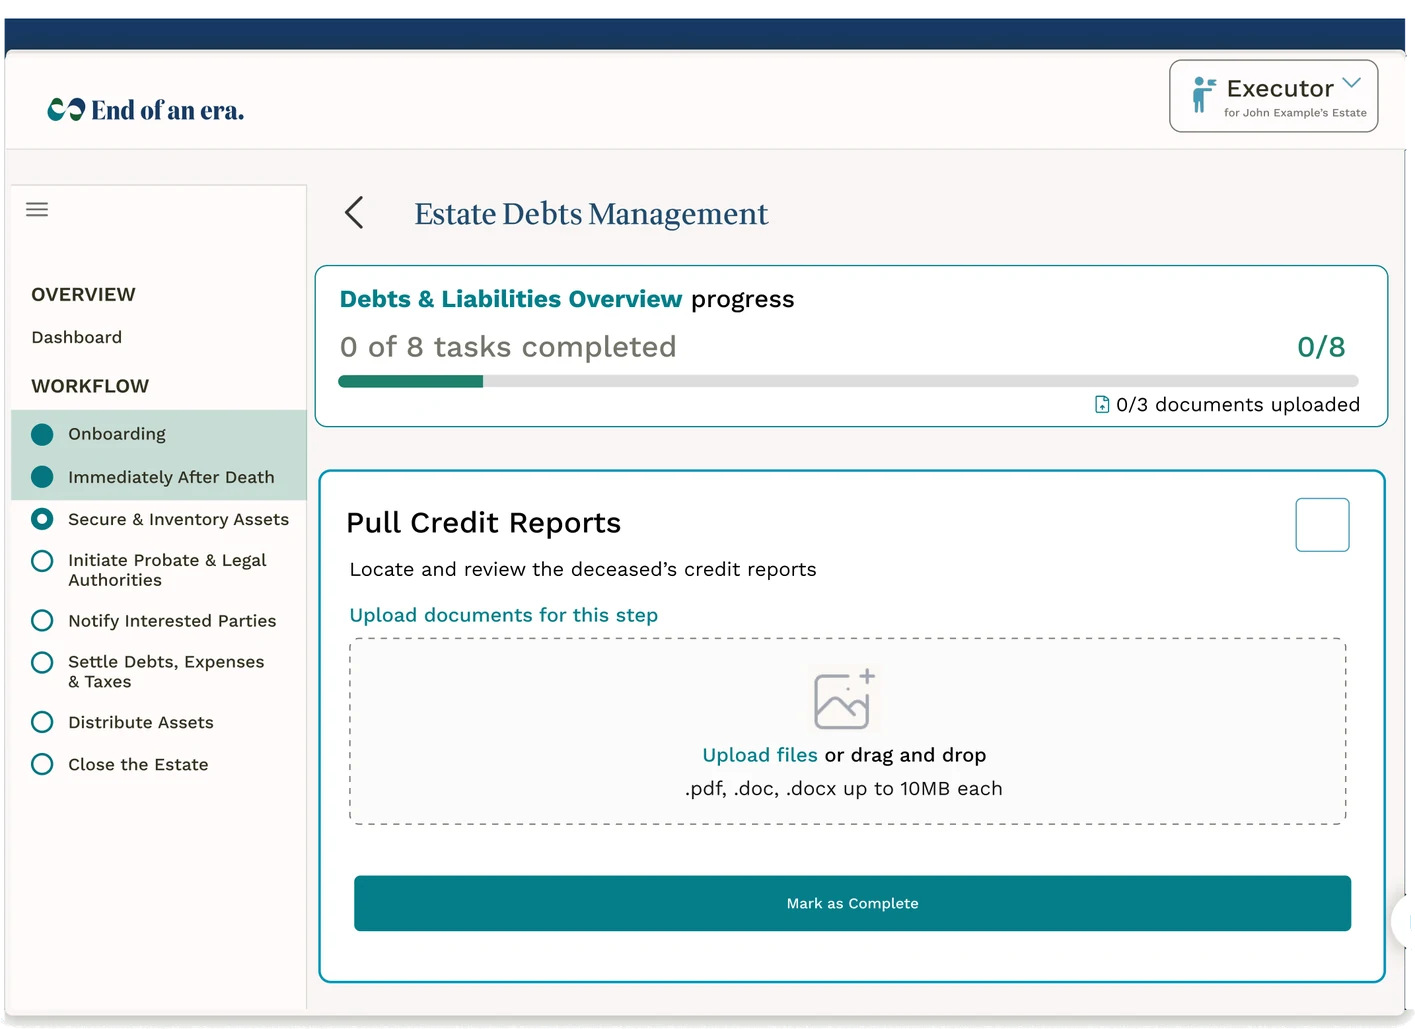
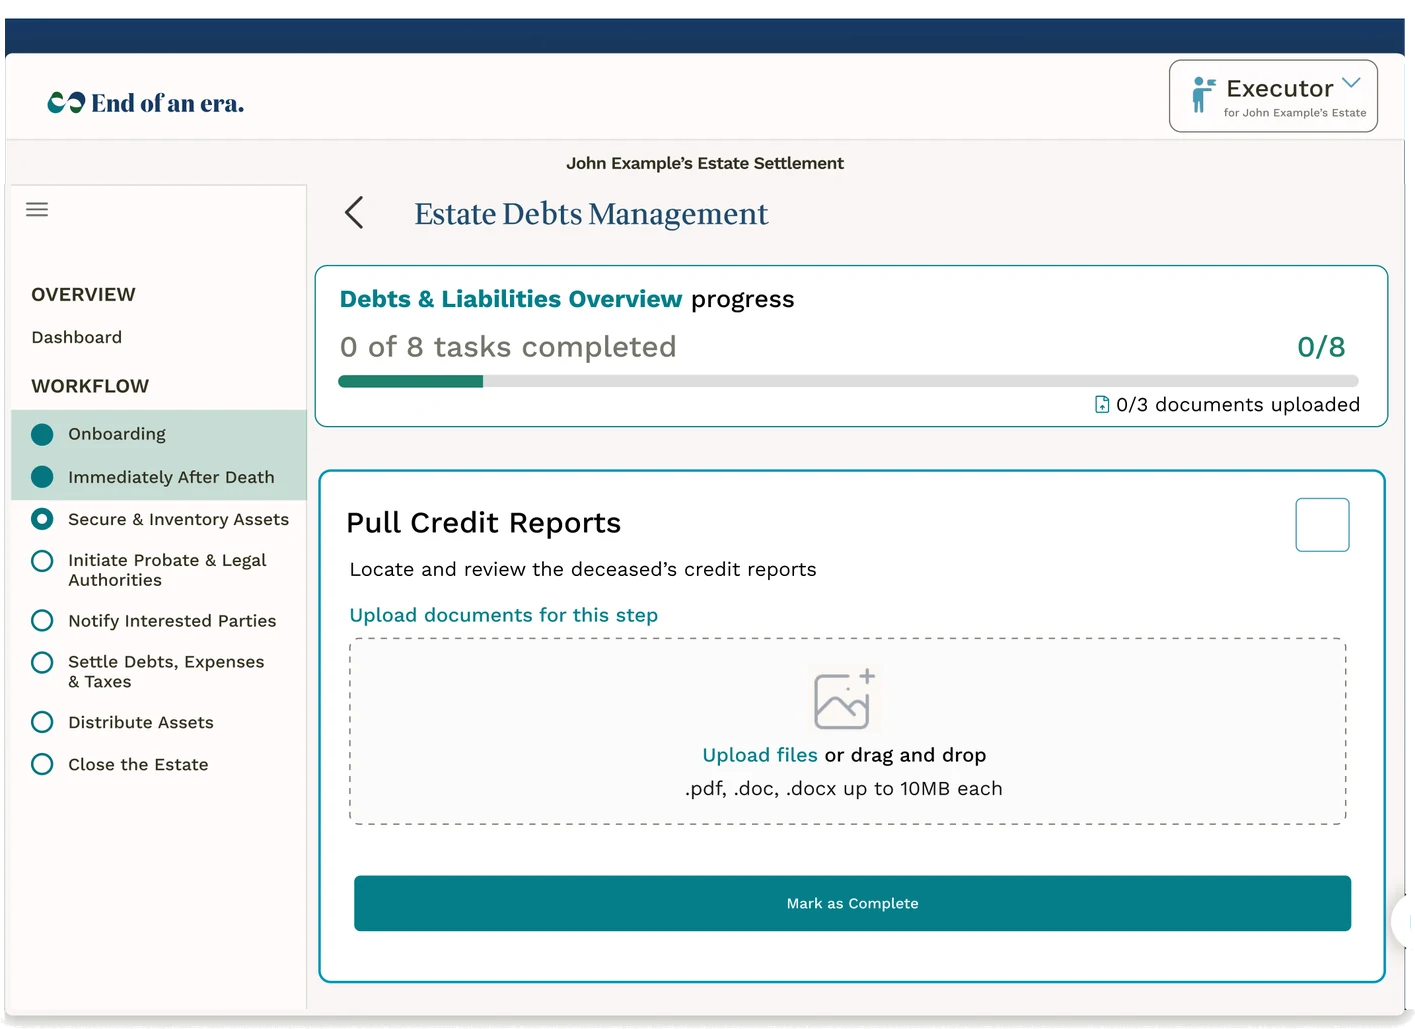
End of an Era: every screen gets the same top band (navy title strip, app header, estate title)
17 screens were missing the strip, missing the whole header, or had a thinner strip/squashed header.

Changed region(s): [[0.0, 0.0311, 0.9951, 0.0933], [0.4042, 0.1555, 0.5908, 0.1866], [0.0311, 0.0933, 0.1866, 0.1244]]

diff --git a/app/work/end-of-an-era/frames.ts b/app/work/end-of-an-era/frames.ts
@@ -18,7 +18,7 @@ export const FRAMES = {
   "tia-planner-7": { w: 1408, h: 1024, win: [3, 0, 1400, 1015] },
   "tia-planner-8": { w: 1415, h: 2732, win: [0, 0, 1400, 997] },
   "tia-planner-9": { w: 1408, h: 1024, win: [3, 0, 1400, 1015] },
-  "tia-noplanner-1": { w: 1400, h: 956, win: [0, 0, 1400, 956] },
+  "tia-noplanner-1": { w: 1400, h: 1009, win: [0, 0, 1400, 1009] },
   "tia-noplanner-2": { w: 1493, h: 1608, win: [3, 0, 1400, 1016] },
   "tia-noplanner-3": { w: 1492, h: 2047, win: [3, 0, 1400, 1016] },
   "tia-noplanner-4": { w: 1405, h: 1024, win: [0, 0, 1400, 1015] },
@@ -34,25 +34,25 @@ export const FRAMES = {
   "personal-noplanner-1": { w: 1405, h: 1024, win: [0, 0, 1400, 1015] },
   "personal-noplanner-2": { w: 1100, h: 1864, win: null },
   "personal-noplanner-3": { w: 1408, h: 1024, win: [3, 0, 1400, 1015] },
-  "business-noplanner-1": { w: 1427, h: 1303, win: [7, 0, 1400, 976] },
+  "business-noplanner-1": { w: 1427, h: 1356, win: [7, 0, 1400, 1029] },
   "business-noplanner-2": { w: 1403, h: 2020, win: [3, 0, 1400, 1015] },
-  "liab-planner-1": { w: 1414, h: 1804, win: [7, 0, 1400, 1031] },
+  "liab-planner-1": { w: 1414, h: 1732, win: [7, 0, 1400, 959] },
   "liab-planner-2": { w: 1415, h: 1102, win: [5, 0, 1400, 1021] },
   "liab-planner-3": { w: 1408, h: 1027, win: [3, 0, 1400, 1015] },
-  "liab-planner-4": { w: 1417, h: 1984, win: [8, 0, 1400, 995] },
-  "liab-planner-5": { w: 1410, h: 1191, win: [3, 0, 1400, 1022] },
-  "liab-planner-6": { w: 1411, h: 2239, win: [4, 0, 1400, 997] },
-  "liab-planner-7": { w: 1410, h: 1338, win: [3, 0, 1400, 1022] },
-  "liab-planner-8": { w: 1402, h: 1005, win: [0, 0, 1400, 995] },
+  "liab-planner-4": { w: 1417, h: 2042, win: [8, 0, 1400, 1053] },
+  "liab-planner-5": { w: 1410, h: 1240, win: [3, 0, 1400, 1071] },
+  "liab-planner-6": { w: 1411, h: 2292, win: [4, 0, 1400, 1050] },
+  "liab-planner-7": { w: 1410, h: 1387, win: [3, 0, 1400, 1071] },
+  "liab-planner-8": { w: 1402, h: 1058, win: [0, 0, 1400, 1048] },
   "liab-planner-9": { w: 1408, h: 1029, win: [3, 0, 1400, 1015] },
-  "liab-noplanner-1": { w: 1414, h: 1804, win: [7, 0, 1400, 1031] },
+  "liab-noplanner-1": { w: 1414, h: 1732, win: [7, 0, 1400, 959] },
   "liab-noplanner-2": { w: 1415, h: 1029, win: [5, 0, 1400, 1021] },
   "liab-noplanner-3": { w: 1408, h: 1027, win: [3, 0, 1400, 1015] },
   "liab-noplanner-4": { w: 1415, h: 1102, win: [5, 0, 1400, 1021] },
-  "liab-noplanner-5": { w: 1410, h: 1191, win: [3, 0, 1400, 1022] },
-  "liab-noplanner-6": { w: 1417, h: 1984, win: [8, 0, 1400, 995] },
-  "liab-noplanner-7": { w: 1411, h: 2239, win: [4, 0, 1400, 997] },
-  "liab-noplanner-8": { w: 1410, h: 1338, win: [3, 0, 1400, 1022] },
-  "liab-noplanner-9": { w: 1402, h: 1004, win: [0, 0, 1400, 994] },
+  "liab-noplanner-5": { w: 1410, h: 1240, win: [3, 0, 1400, 1071] },
+  "liab-noplanner-6": { w: 1417, h: 2042, win: [8, 0, 1400, 1053] },
+  "liab-noplanner-7": { w: 1411, h: 2292, win: [4, 0, 1400, 1050] },
+  "liab-noplanner-8": { w: 1410, h: 1387, win: [3, 0, 1400, 1071] },
+  "liab-noplanner-9": { w: 1402, h: 1058, win: [0, 0, 1400, 1048] },
   "liab-noplanner-10": { w: 1408, h: 1024, win: [3, 0, 1400, 1015] },
 } as const satisfies Record<string, { w: number; h: number; win: readonly [number, number, number, number] | null }>;
